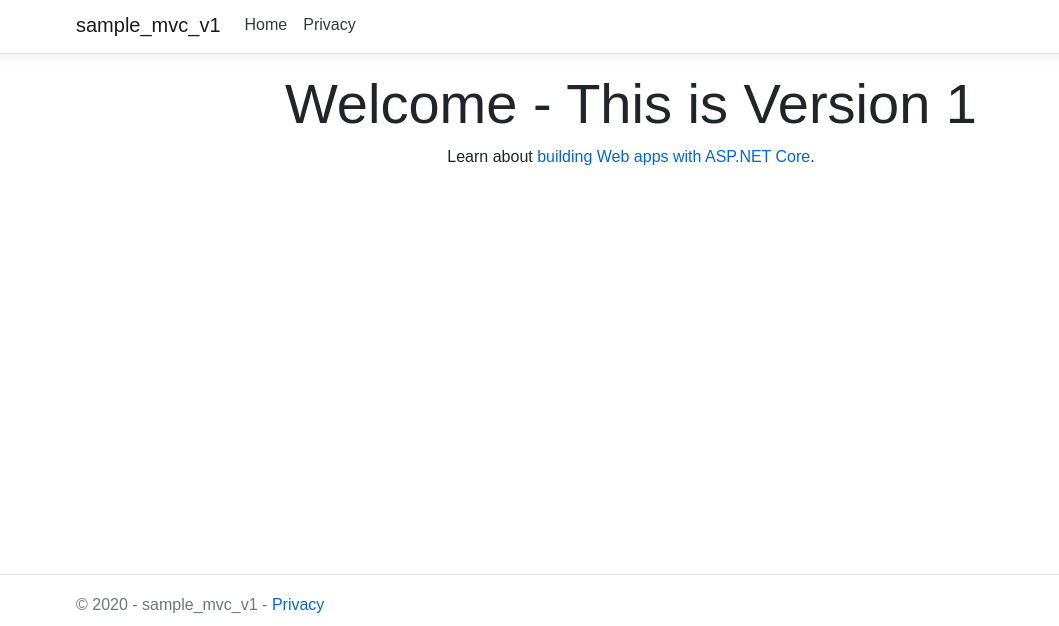
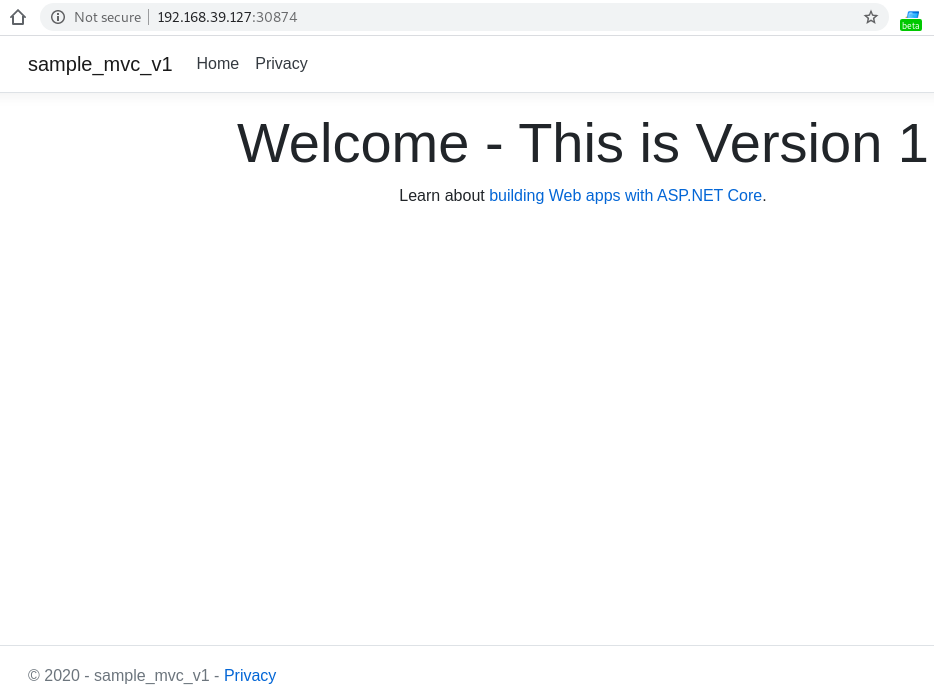
changes images for web apps and text

diff --git a/README.md b/README.md
@@ -25,7 +25,7 @@ This will create a projects with necessory structure. Run the applications by ty
 dotnet run
 ```
 
-I have changed the text in both applications to show the difference. Below you can see results from both applications.
+I have changed the text in both applications to show the difference. Below you can see results from both applications. In the following images you can see both applications runing with same IP but different ports on Minikube.
 
 **sample-mvc-v1** 
 
@@ -145,4 +145,4 @@ Now you can see images are uploaded to dockerhub.
 | -------------------------------------
 
 
-# Deploying MVC webapplication to Google Cloud
+# Deploying MVC web Application to Google Cloud
